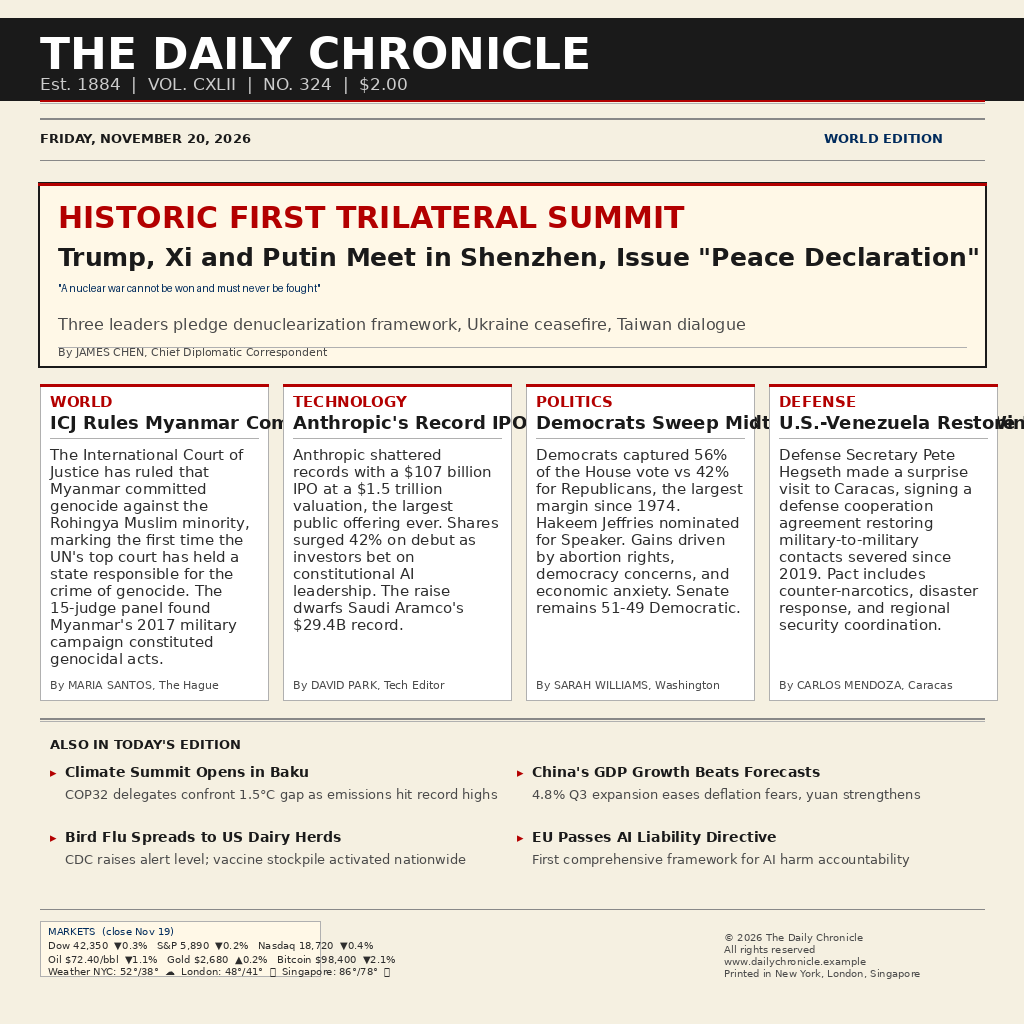
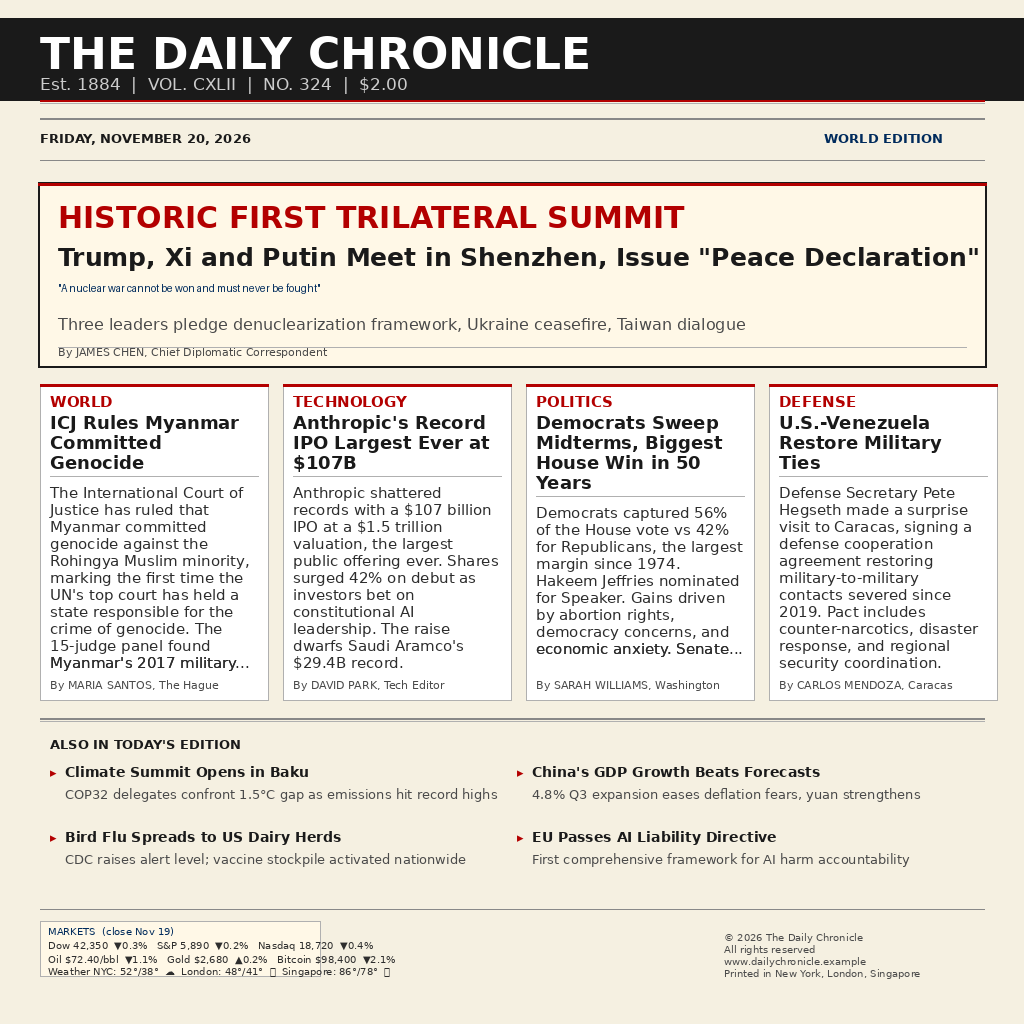
News image entry for make.fun news-image-20261120

Changed region(s): [[0.25, 0.4062, 1.0, 0.6562], [0.0312, 0.4062, 0.25, 0.6562]]

diff --git a/render.py b/render.py
@@ -23,7 +23,7 @@ def get_font(size, bold=False, italic=False):
     except:
         return ImageFont.load_default()
 
-def draw_text_wrapped(draw, text, x, y, font, max_width, fill="black", line_spacing=3):
+def draw_text_wrapped(draw, text, x, y, font, max_width, fill="black", line_spacing=3, max_height=None):
     words = text.split()
     lines = []
     current_line = []
@@ -40,17 +40,32 @@ def draw_text_wrapped(draw, text, x, y, font, max_width, fill="black", line_spac
     if current_line:
         lines.append(" ".join(current_line))
     
-    for i, line in enumerate(lines):
-        draw.text((x, y + i * (font.size + line_spacing)), line, font=font, fill=fill)
+    line_height = font.size + line_spacing
+    max_lines = len(lines)
+    if max_height is not None:
+        max_lines = min(max_lines, max(1, max_height // line_height))
     
-    return len(lines) * (font.size + line_spacing)
+    drawn_lines = lines[:max_lines]
+    for i, line in enumerate(drawn_lines):
+        draw.text((x, y + i * line_height), line, font=font, fill=fill)
+    
+    if len(lines) > max_lines and drawn_lines:
+        last_line = drawn_lines[-1]
+        ellipsis = "..."
+        while draw.textbbox((0, 0), last_line + ellipsis, font=font)[2] - draw.textbbox((0, 0), last_line + ellipsis, font=font)[0] > max_width:
+            last_line = last_line[:-1]
+            if not last_line:
+                last_line = ellipsis
+                break
+        draw.text((x, y + (max_lines - 1) * line_height), last_line + ellipsis, font=font, fill=fill)
+    
+    return min(len(lines), max_lines) * line_height
 
 def draw_column_headline(draw, x, y, width, kicker, headline, font_kicker, font_headline, fill_kicker, fill_headline, line_color):
-    """Draw a two-line column headline with kicker and main headline"""
+    """Draw a column headline with kicker and wrapped main headline"""
     draw.text((x, y), kicker, font=font_kicker, fill=fill_kicker)
     kicker_h = font_kicker.size + 4
-    draw.text((x, y + kicker_h), headline, font=font_headline, fill=fill_headline)
-    headline_h = font_headline.size + 4
+    headline_h = draw_text_wrapped(draw, headline, x, y + kicker_h, font_headline, width, fill=fill_headline, line_spacing=2)
     draw.line([(x, y + kicker_h + headline_h + 4), (x + width, y + kicker_h + headline_h + 4)], fill=line_color, width=1)
     return kicker_h + headline_h + 12
 
@@ -135,8 +150,11 @@ def main():
     h_used = draw_column_headline(draw, x + 10, row_y + 8, col_width - 20,
         "WORLD", "ICJ Rules Myanmar Committed Genocide", font_kicker, font_col_headline, RED, BLACK, LINE_COLOR)
     body1 = "The International Court of Justice has ruled that Myanmar committed genocide against the Rohingya Muslim minority, marking the first time the UN's top court has held a state responsible for the crime of genocide. The 15-judge panel found Myanmar's 2017 military campaign constituted genocidal acts."
-    draw_text_wrapped(draw, body1, x + 10, row_y + 8 + h_used, font_body_sm, col_width - 20, fill=DARK_GRAY, line_spacing=2)
-    draw.text((x + 10, row_y + col_height - 22), "By MARIA SANTOS, The Hague", font=font_byline, fill=MED_GRAY)
+    body_y = row_y + 8 + h_used
+    byline_y = row_y + col_height - 22
+    max_body_h = byline_y - body_y - 6
+    draw_text_wrapped(draw, body1, x + 10, body_y, font_body_sm, col_width - 20, fill=DARK_GRAY, line_spacing=2, max_height=max_body_h)
+    draw.text((x + 10, byline_y), "By MARIA SANTOS, The Hague", font=font_byline, fill=MED_GRAY)
     
     # Column 2: Anthropic IPO
     x = col_starts[1]
@@ -145,8 +163,11 @@ def main():
     h_used = draw_column_headline(draw, x + 10, row_y + 8, col_width - 20,
         "TECHNOLOGY", "Anthropic's Record IPO Largest Ever at $107B", font_kicker, font_col_headline, RED, BLACK, LINE_COLOR)
     body2 = "Anthropic shattered records with a $107 billion IPO at a $1.5 trillion valuation, the largest public offering ever. Shares surged 42% on debut as investors bet on constitutional AI leadership. The raise dwarfs Saudi Aramco's $29.4B record."
-    draw_text_wrapped(draw, body2, x + 10, row_y + 8 + h_used, font_body_sm, col_width - 20, fill=DARK_GRAY, line_spacing=2)
-    draw.text((x + 10, row_y + col_height - 22), "By DAVID PARK, Tech Editor", font=font_byline, fill=MED_GRAY)
+    body_y = row_y + 8 + h_used
+    byline_y = row_y + col_height - 22
+    max_body_h = byline_y - body_y - 6
+    draw_text_wrapped(draw, body2, x + 10, body_y, font_body_sm, col_width - 20, fill=DARK_GRAY, line_spacing=2, max_height=max_body_h)
+    draw.text((x + 10, byline_y), "By DAVID PARK, Tech Editor", font=font_byline, fill=MED_GRAY)
     
     # Column 3: US Midterms
     x = col_starts[2]
@@ -155,8 +176,11 @@ def main():
     h_used = draw_column_headline(draw, x + 10, row_y + 8, col_width - 20,
         "POLITICS", "Democrats Sweep Midterms, Biggest House Win in 50 Years", font_kicker, font_col_headline, RED, BLACK, LINE_COLOR)
     body3 = "Democrats captured 56% of the House vote vs 42% for Republicans, the largest margin since 1974. Hakeem Jeffries nominated for Speaker. Gains driven by abortion rights, democracy concerns, and economic anxiety. Senate remains 51-49 Democratic."
-    draw_text_wrapped(draw, body3, x + 10, row_y + 8 + h_used, font_body_sm, col_width - 20, fill=DARK_GRAY, line_spacing=2)
-    draw.text((x + 10, row_y + col_height - 22), "By SARAH WILLIAMS, Washington", font=font_byline, fill=MED_GRAY)
+    body_y = row_y + 8 + h_used
+    byline_y = row_y + col_height - 22
+    max_body_h = byline_y - body_y - 6
+    draw_text_wrapped(draw, body3, x + 10, body_y, font_body_sm, col_width - 20, fill=DARK_GRAY, line_spacing=2, max_height=max_body_h)
+    draw.text((x + 10, byline_y), "By SARAH WILLIAMS, Washington", font=font_byline, fill=MED_GRAY)
     
     # Column 4: US-Venezuela military ties
     x = col_starts[3]
@@ -165,8 +189,11 @@ def main():
     h_used = draw_column_headline(draw, x + 10, row_y + 8, col_width - 20,
         "DEFENSE", "U.S.-Venezuela Restore Military Ties", font_kicker, font_col_headline, RED, BLACK, LINE_COLOR)
     body4 = "Defense Secretary Pete Hegseth made a surprise visit to Caracas, signing a defense cooperation agreement restoring military-to-military contacts severed since 2019. Pact includes counter-narcotics, disaster response, and regional security coordination."
-    draw_text_wrapped(draw, body4, x + 10, row_y + 8 + h_used, font_body_sm, col_width - 20, fill=DARK_GRAY, line_spacing=2)
-    draw.text((x + 10, row_y + col_height - 22), "By CARLOS MENDOZA, Caracas", font=font_byline, fill=MED_GRAY)
+    body_y = row_y + 8 + h_used
+    byline_y = row_y + col_height - 22
+    max_body_h = byline_y - body_y - 6
+    draw_text_wrapped(draw, body4, x + 10, body_y, font_body_sm, col_width - 20, fill=DARK_GRAY, line_spacing=2, max_height=max_body_h)
+    draw.text((x + 10, byline_y), "By CARLOS MENDOZA, Caracas", font=font_byline, fill=MED_GRAY)
     
     y = row_y + col_height + 18
     
